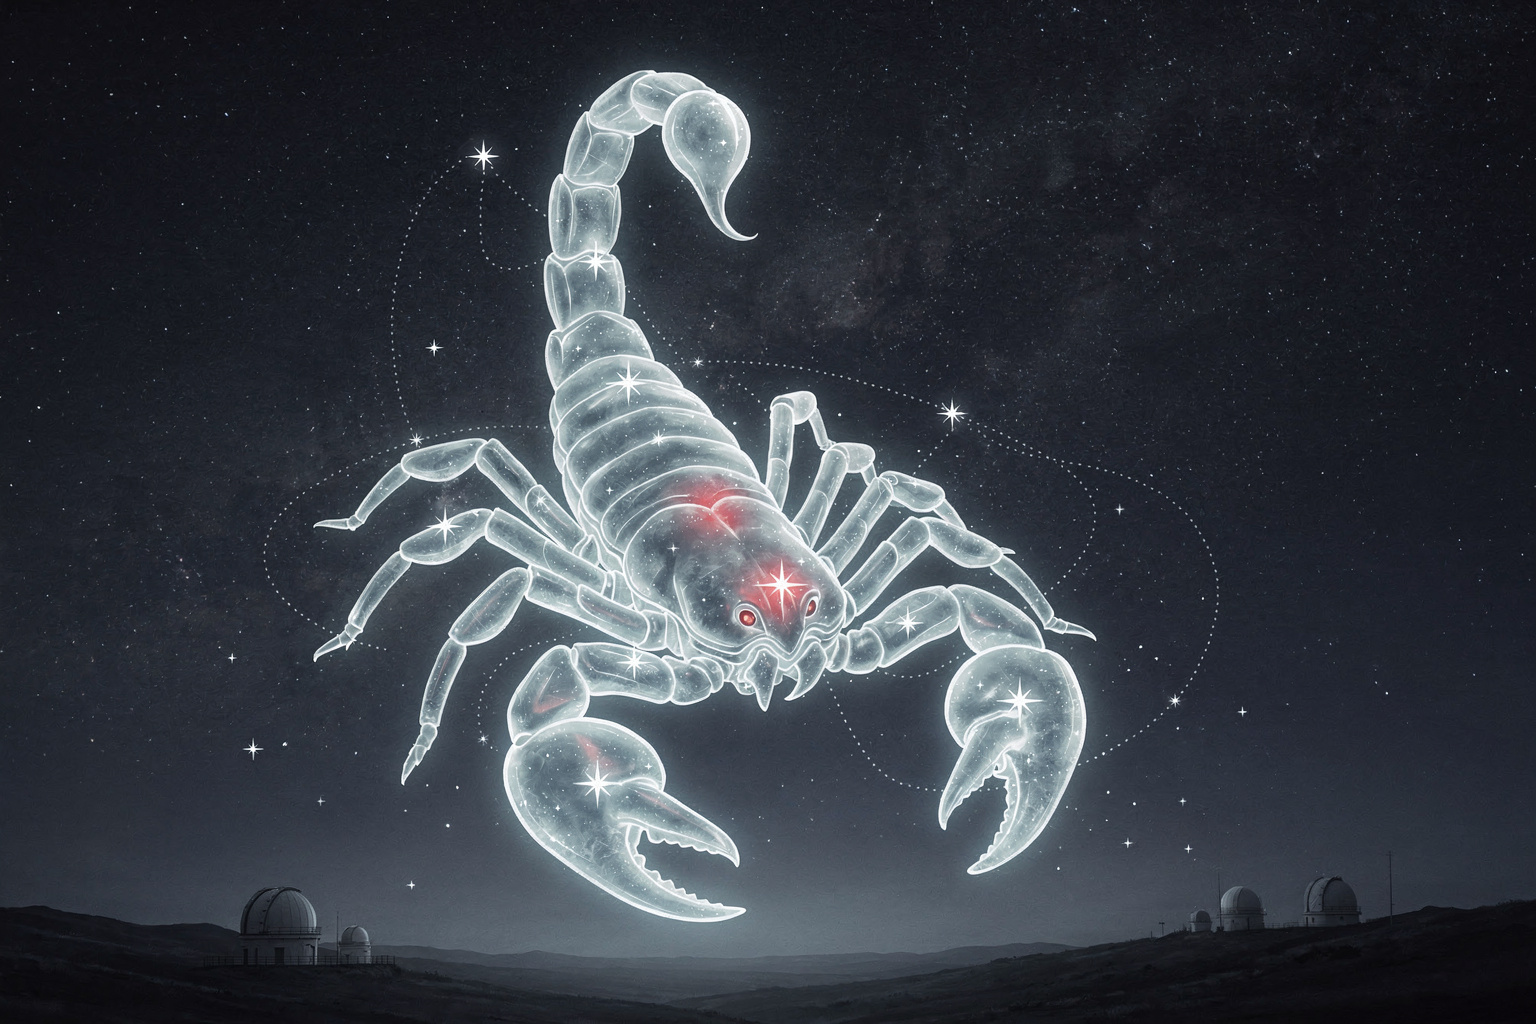
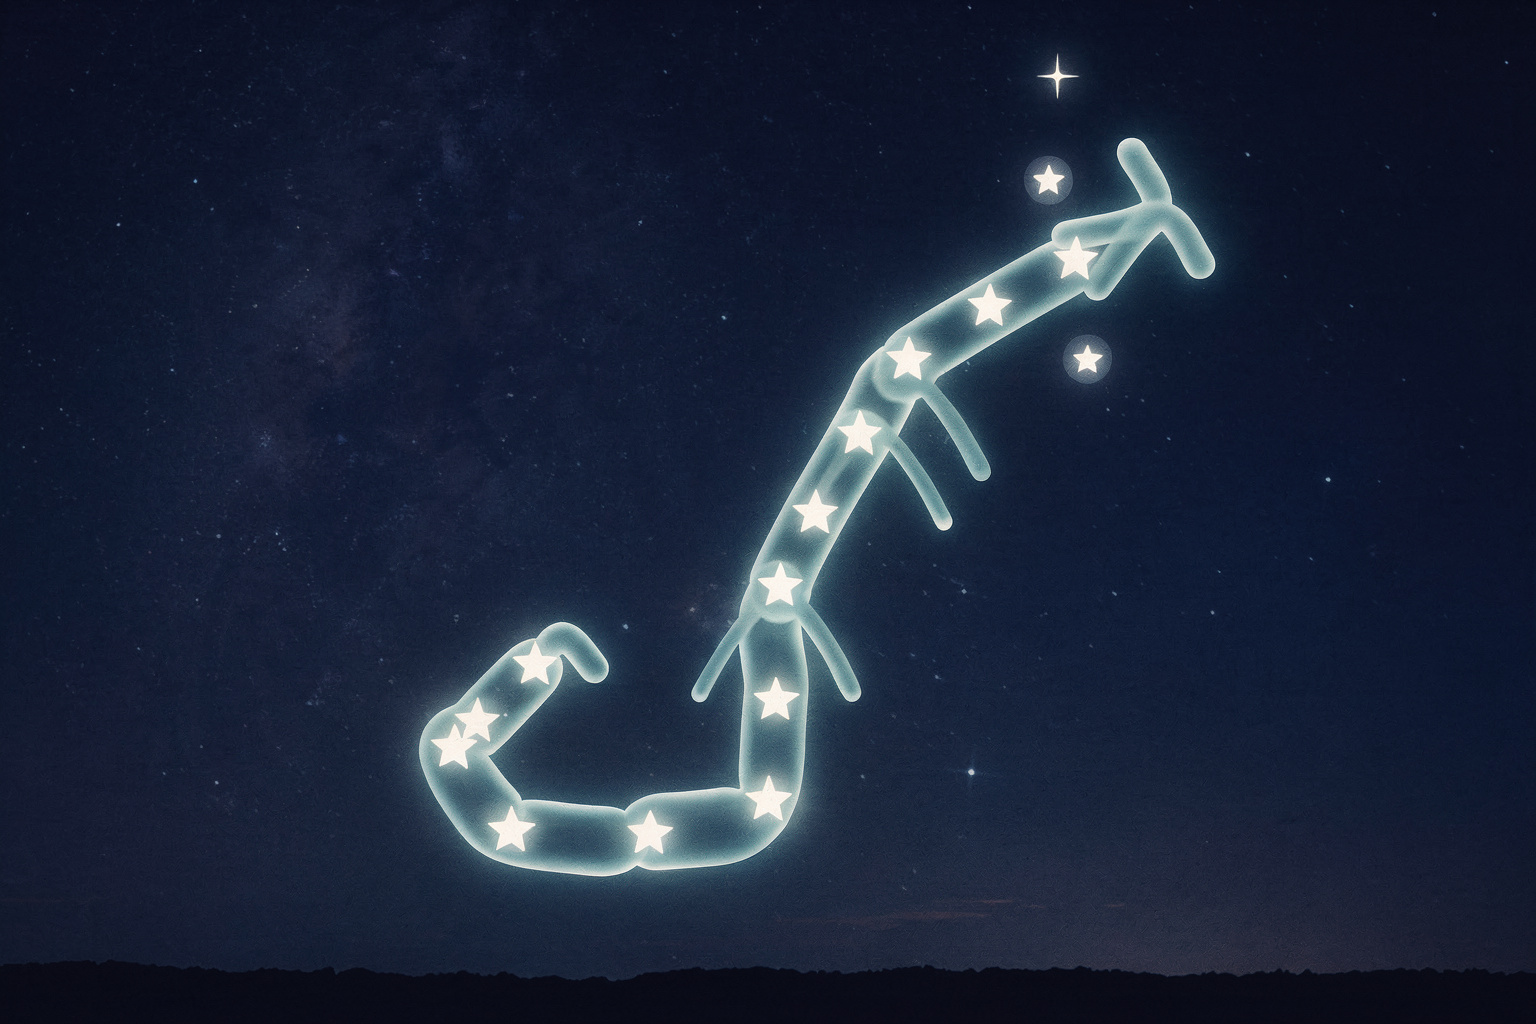
Night hero: registered spectral creatures (Scorpius) -- Flux painted on the real stars
The real fix for "make the hero figure actually sit on the stars": feed Flux a
CREATURE-shaped skeleton built from the figure's real projected stars (not bare
dots, which it ignores and reinvents), and it paints the spectral creature while
KEEPING the shape and the exact star positions. The app then overlays the real
bright stars on top so they land precisely on the painting's stars.

- New REG_HERO / REG_PAD registry. Scorpius is the first: night-heroes/scorpius.jpg
  is now a spectral scorpion built on its real stars (claws on the head stars, body
  curving through Antares, hooked stinger at Shaula). Registration verified to
  <0.02px: projFigure(f,300,200,REG_PAD) x5.12 == the 1536x1024 skeleton the
  painting was generated from (whose stars sit on the painted stars).
- Registered figures show the Flux creature at FULL strength (.reg / heroAuraFull),
  .fig-hero left empty (the creature IS the hero); the real stars + lines overlay on
  top and the lines fade as the creature blooms.
- Restructured figureSVG: persistent starfield + constellation lines + bright stars.
  Legacy (non-REG_HERO) figures keep the enriched luminous .fig-hero + dim aura +
  HERO_AURA_ADJ, unchanged.
- Removed the vector-ghost experiment (superseded by this Flux pipeline).

Docs (CLAUDE.md, astral-heroic-card-art skill) updated with the full
skeleton -> Flux -> overlay recipe and the no-screenshot registration check.
One complete figure (Scorpius) to review live before rolling the pipeline out.

diff --git a/index.html b/index.html
@@ -428,13 +428,22 @@ body.sky-full-on{overflow:hidden;}
 .sky-hero-stage .sky-hero-fig svg{display:block;width:100%;height:100%;}
 .sky-hero-stage .sky-hero-aura{object-fit:cover;opacity:0;filter:brightness(0.7) saturate(1) contrast(1.02);}
 .sky-hero-stage .sky-hero-veil{background:radial-gradient(120% 92% at 50% 40%,transparent 44%,rgba(6,10,26,0.52) 100%);pointer-events:none;}
-/* The "shift": the faint chart lights into the glowing figure while the painting
-   blooms in behind it — the stars hold position throughout (exact match). */
+/* The "shift": the starfield + bright stars persist; the constellation lines fade
+   out as the ghostly form (built through those same stars) rises over them, so the
+   viewer sees why the stars trace that creature. Painting (when present) blooms behind. */
+.sky-hero-stage .fig-field,.sky-hero-stage .fig-stars{opacity:1;}
 .sky-hero-stage .fig-chart{animation:morphChart 4.4s ease-in-out .3s infinite alternate;}
 .sky-hero-stage .fig-hero{opacity:0;animation:morphHero 4.4s ease-in-out .3s infinite alternate;}
 .sky-hero-stage.has-hero .sky-hero-aura{animation:heroAura 4.4s ease-in-out .3s infinite alternate;}
 @keyframes heroAura{0%,16%{opacity:0;}70%,100%{opacity:0.62;}}
-@media(prefers-reduced-motion:reduce){.sky-hero-stage .fig-chart{animation:none;opacity:0;}.sky-hero-stage .fig-hero{animation:none;opacity:1;}.sky-hero-stage.has-hero .sky-hero-aura{animation:none;opacity:0.62;}}
+/* Registered spectral hero (Flux creature built on the real stars): shown at FULL
+   strength — it's the hero, not a dim backdrop — blooming up from the star-chart while
+   the lines fade and the real stars hold their exact positions on top. */
+.sky-hero-stage.reg .sky-hero-aura{filter:brightness(0.96) saturate(1.05) contrast(1.02);}
+.sky-hero-stage.reg .sky-hero-veil{background:radial-gradient(130% 100% at 50% 42%,transparent 56%,rgba(6,10,26,0.42) 100%);}
+.sky-hero-stage.reg.has-hero .sky-hero-aura{animation:heroAuraFull 4.4s ease-in-out .3s infinite alternate;}
+@keyframes heroAuraFull{0%,14%{opacity:0.12;}68%,100%{opacity:0.96;}}
+@media(prefers-reduced-motion:reduce){.sky-hero-stage .fig-chart{animation:none;opacity:0;}.sky-hero-stage .fig-hero{animation:none;opacity:1;}.sky-hero-stage.has-hero .sky-hero-aura{animation:none;opacity:0.62;}.sky-hero-stage.reg.has-hero .sky-hero-aura{animation:none;opacity:0.96;}}
 .sky-now{margin:11px 20px 2px;font-family:var(--mono);font-size:11.5px;color:#cfe0ff;background:rgba(143,184,232,0.13);border:1px solid rgba(143,184,232,0.26);border-radius:10px;padding:8px 11px;line-height:1.5;}
 .sky-modal-blurb{margin:14px 20px 4px;font-family:var(--sans);font-size:15px;font-weight:600;color:var(--tx);line-height:1.45;}
 .sky-sec{margin:14px 20px 0;}
@@ -2662,6 +2671,16 @@ function figureAnchor(f){
   let best=f.s[0]; for(const s of f.s) if(s[3]<best[3]) best=s;
   return (f._anc=best);
 }
+// ── Registered spectral heroes ───────────────────────────────────────────────
+// The hero pipeline: build a CREATURE-skeleton from a figure's real projected stars,
+// let Flux paint the spectral creature over it (keeping the shape AND star positions),
+// save as night-heroes/<slug>.jpg, then in-app draw the real bright stars + lines on
+// top so they land EXACTLY on the painting's stars. `REG_HERO` marks figures wired this
+// way; `REG_PAD` is the projection inset (in the 300-px box) matching the skeleton the
+// painting was built from, so the overlay registers pixel-exact. Scorpius is the proof.
+const REG_HERO={scorpius:1};
+const REG_PAD={scorpius:35.16}; // = skeleton pad 180 / (1536/300)
+function isRegHero(slug){ return !!REG_HERO[slug]; }
 // Registered figure for the hero stage. Projects the figure's FULL real-star list
 // (cos-dec-corrected RA, north up) into the 3:2 stage box and draws it as two
 // pixel-aligned layers over a TRANSPARENT backdrop (so the Flux aura shows through):
@@ -2673,37 +2692,45 @@ function figureAnchor(f){
 // CSS var()).
 function figureSVG(slug,ac){
   const f=FIG_BY_SLUG[slug]; if(!f) return '';
-  const W=300,H=200,pad=30;
+  const reg=isRegHero(slug);
+  // Registered-hero figures use the projection inset the Flux painting was built from,
+  // so the overlaid real stars land exactly on the painting's stars.
+  const W=300,H=200,pad=REG_PAD[slug]||30;
   const {pts,lines}=projFigure(f,W,H,pad);
   const anc=figureAnchor(f); let ai=0; for(let i=0;i<f.s.length;i++){ if(f.s[i][0]===anc[0]){ ai=i; break; } }
   const ap=pts[ai];
-  // Astral chart layer (the "before").
+  // Scattered starfield so the astral layer reads like a real chart of the sky.
+  let h=_hashStr(slug)||1; const rnd=()=>{ h=(h*1103515245+12345)&0x7fffffff; return h/0x7fffffff; };
+  let field='<g class="fig-field">';
+  for(let i=0;i<78;i++){ const dx=(rnd()*W).toFixed(1), dy=(rnd()*H).toFixed(1), dr=(0.3+rnd()*0.8).toFixed(2); field+=`<circle cx="${dx}" cy="${dy}" r="${dr}" fill="#cfe0ff" opacity="${(0.10+rnd()*0.30).toFixed(2)}"/>`; }
+  field+='</g>';
+  // Astral constellation LINES (the "before") — fade out as the creature/figure rises.
   let chart='<g class="fig-chart">';
-  for(const e of lines){ const a=pts[e[0]],b=pts[e[1]]; if(!a||!b)continue; chart+=`<line x1="${a.x.toFixed(1)}" y1="${a.y.toFixed(1)}" x2="${b.x.toFixed(1)}" y2="${b.y.toFixed(1)}" stroke="rgba(190,215,255,0.5)" stroke-width="1" stroke-linecap="round"/>`; }
-  for(const p of pts){ const r=Math.max(1,2.4-p.mag*0.32); chart+=`<circle cx="${p.x.toFixed(1)}" cy="${p.y.toFixed(1)}" r="${r.toFixed(1)}" fill="#eaf2ff" opacity="0.92"/>`; }
+  for(const e of lines){ const a=pts[e[0]],b=pts[e[1]]; if(!a||!b)continue; chart+=`<line x1="${a.x.toFixed(1)}" y1="${a.y.toFixed(1)}" x2="${b.x.toFixed(1)}" y2="${b.y.toFixed(1)}" stroke="rgba(190,215,255,0.55)" stroke-width="1" stroke-linecap="round"/>`; }
   chart+='</g>';
-  // Heroic figure layer (the "after"): the constellation drawn as a luminous astral
-  // FORM sitting exactly on the real stars — rarity-coloured limbs given volume by a
-  // stack of blurred strokes (outer aura → volume → body) under a bright starlight
-  // core, with radiant orbs at each star. This is the registered figure that always
-  // matches; the painting behind it is only mood.
-  const strokeLayer=(w,col,op,blur,glow)=>{ let t='';
-    for(const e of lines){ const a=pts[e[0]],b=pts[e[1]]; if(!a||!b)continue; t+=`<line x1="${a.x.toFixed(1)}" y1="${a.y.toFixed(1)}" x2="${b.x.toFixed(1)}" y2="${b.y.toFixed(1)}" stroke="${col}" stroke-width="${w}" stroke-linecap="round" stroke-linejoin="round"/>`; }
-    const f=[]; if(blur)f.push(`blur(${blur}px)`); if(glow)f.push(`drop-shadow(0 0 3px ${ac})`);
-    return `<g opacity="${op}"${f.length?` style="filter:${f.join(' ')}"`:''}>${t}</g>`; };
+  // The "after": for registered figures the creature IS the Flux painting behind, so the
+  // hero layer stays empty; legacy figures still light their lines into a luminous form.
   let hero='<g class="fig-hero">';
-  hero+=strokeLayer(15,ac,0.10,4,false);   // outer aura
-  hero+=strokeLayer(8,ac,0.20,1.5,false);  // volume
-  hero+=strokeLayer(3.4,ac,0.60,0,false);  // body
-  hero+=strokeLayer(1.4,'#eaf6ff',0.95,0,true); // bright starlight core
-  for(const p of pts){ const r=Math.max(1.6,3.1-p.mag*0.34);
-    hero+=`<circle cx="${p.x.toFixed(1)}" cy="${p.y.toFixed(1)}" r="${(r*2.2).toFixed(1)}" fill="${ac}" opacity="0.5" style="filter:blur(2px)"/>`;
-    hero+=`<circle cx="${p.x.toFixed(1)}" cy="${p.y.toFixed(1)}" r="${r.toFixed(1)}" fill="#fff" style="filter:drop-shadow(0 0 ${(r*1.6).toFixed(1)}px ${ac})"/>`; }
+  if(!reg){
+    const strokeLayer=(w,col,op,blur,glow)=>{ let t='';
+      for(const e of lines){ const a=pts[e[0]],b=pts[e[1]]; if(!a||!b)continue; t+=`<line x1="${a.x.toFixed(1)}" y1="${a.y.toFixed(1)}" x2="${b.x.toFixed(1)}" y2="${b.y.toFixed(1)}" stroke="${col}" stroke-width="${w}" stroke-linecap="round" stroke-linejoin="round"/>`; }
+      const fl=[]; if(blur)fl.push(`blur(${blur}px)`); if(glow)fl.push(`drop-shadow(0 0 3px ${ac})`);
+      return `<g opacity="${op}"${fl.length?` style="filter:${fl.join(' ')}"`:''}>${t}</g>`; };
+    hero+=strokeLayer(15,ac,0.10,4,false)+strokeLayer(8,ac,0.20,1.5,false)+strokeLayer(3.4,ac,0.60,0,false)+strokeLayer(1.4,'#eaf6ff',0.95,0,true);
+  }
   hero+='</g>';
+  // Bright highlighted stars — persistent, ON TOP of both phases (the registration
+  // anchors you always see, brighter than the background starfield). Glows share ONE
+  // blur group + layered circles (no per-star filters) so the stage stays light.
+  let glows='',cores='';
+  for(const p of pts){ const r=Math.max(1.6,3.1-p.mag*0.34), x=p.x.toFixed(1), y=p.y.toFixed(1);
+    glows+=`<circle cx="${x}" cy="${y}" r="${(r*2.6).toFixed(1)}" fill="${ac}" opacity="0.4"/>`;
+    cores+=`<circle cx="${x}" cy="${y}" r="${(r*1.5).toFixed(1)}" fill="${ac}" opacity="0.55"/><circle cx="${x}" cy="${y}" r="${r.toFixed(1)}" fill="#fff"/>`; }
+  let stars=`<g class="fig-stars"><g style="filter:blur(2.5px)">${glows}</g>${cores}</g>`;
   // Persistent anchor label (names the brightest star so the figure stays legible).
   let lab='';
   if(ap){ const ty=Math.max(11,ap.y-6); lab=`<text x="${ap.x.toFixed(1)}" y="${ty.toFixed(1)}" fill="#cfe0ff" font-size="10" text-anchor="middle" style="font-family:'DM Mono',monospace">${anc[0]}</text>`; }
-  return `<svg viewBox="0 0 ${W} ${H}" xmlns="http://www.w3.org/2000/svg" role="img" aria-label="${f.n} star figure">${chart}${hero}${lab}</svg>`;
+  return `<svg viewBox="0 0 ${W} ${H}" xmlns="http://www.w3.org/2000/svg" role="img" aria-label="${f.n} star figure">${field}${chart}${hero}${stars}${lab}</svg>`;
 }
 // ── Loot-grade rarity + two-phase "astral heroic" card art ──────────────────
 // Every night card carries a rarity (loot colours: common→green, rare→blue,
@@ -4176,15 +4203,18 @@ function renderStoryBody(slug,lat,lng){
   if(FIG_BY_SLUG[slug]){
     // Constellation: prominent full-width hero stage. The real star chart morphs
     // once into the illustrated figure (when HERO_ART exists), else just the chart.
-    const art=HERO_ART[slug], cls=art?' has-hero':'';
+    // Registered-hero figures show their spectral Flux creature at FULL strength (it's
+    // built ON the real stars, so it's the hero, not a dim mismatched aura) and skip the
+    // per-figure flip/scale. Legacy figures keep the dim, orientation-nudged aura.
+    const reg=isRegHero(slug), art=HERO_ART[slug], cls=art?(reg?' has-hero reg':' has-hero'):'';
     s+=`<div class="sky-hero-stage${cls}" style="--ac:${ac};" aria-hidden="true">`;
-    // Flux painting as the dim background AURA + a vignette veil (only when art
-    // exists). No loading="lazy": the modal (and this <img>) only exist once the
-    // card is tapped, so the fetch is already on-demand; lazy would stop it loading
-    // inside the fixed-position sheet. The SW runtime-caches it after the first open.
-    if(art){ const adj=HERO_AURA_ADJ[slug], ast=adj?` style="transform:${adj};transform-origin:center;"`:''; s+=`<img class="sky-hero-aura"${ast} src="${art}" alt="" decoding="async" onerror="var st=this.closest('.sky-hero-stage'); if(st) st.classList.remove('has-hero'); this.remove();"><div class="sky-hero-veil"></div>`; }
-    // Registered star-figure on top — same projection both phases, so the stars
-    // stay locked over the aura (exact match).
+    // Flux painting as the background creature/aura + a vignette veil. No loading="lazy":
+    // the modal (and this <img>) only exist once the card is tapped, so the fetch is
+    // already on-demand; lazy would stop it loading inside the fixed-position sheet. The
+    // SW runtime-caches it after the first open.
+    if(art){ const adj=reg?'':HERO_AURA_ADJ[slug], ast=adj?` style="transform:${adj};transform-origin:center;"`:''; s+=`<img class="sky-hero-aura"${ast} src="${art}" alt="" decoding="async" onerror="var st=this.closest('.sky-hero-stage'); if(st) st.classList.remove('has-hero'); this.remove();"><div class="sky-hero-veil"></div>`; }
+    // Registered star-figure on top — the real bright stars + lines land exactly on the
+    // painting's stars (the "identifies the stars" match).
     s+=`<div class="sky-hero-fig">${figureSVG(slug,ac)}</div>`;
     s+=`</div>`;
   }else{

diff --git a/CLAUDE.md b/CLAUDE.md
@@ -67,20 +67,29 @@ Hosted on GitHub Pages at https://foxorama.github.io/golf-finder/ (deploys from
   limbs given volume by a stack of blurred rarity-coloured strokes (outer aura → volume →
   body) under a bright starlight core, with radiant orbs at each star — so the thing sitting
   exactly on the real stars reads as the figure itself, and it (not the painting) carries the
-  match. **Hard-won finding: Flux text-to-image CANNOT pose a painting onto the exact stars.**
-  Even `flux2_max` fed the real star-skeleton as a structural reference just paints a generic,
-  well-composed figure (often facing the wrong way) — and the real stars don't form a tidy
-  figure anyway (that's the point). So don't regenerate art hoping it'll register; instead the
-  enriched `.fig-hero` is the true match, and the painting is oriented behind it by
-  **`HERO_AURA_ADJ[slug]`** — a per-figure CSS transform on `.sky-hero-aura`
-  (`scaleX(-1)`/`scale`/`translate`) to flip/scale/shift the gross pose into place (most
-  existing paintings already orient fine — Orion & Leo line up beautifully; Sagittarius needed
-  a flip + its art swapped for a cleaner regen). To regenerate a painting anyway: render the
-  figure skeleton with GDI+ in the *exact* `projFigure` framing (1536×1024 = 5.12× the
-  300×200 box, pad 153.6), upload via the Flux MCP `request_upload_url` (PUT works on
-  `app.bfl.ai`; force TLS1.2 in PS5.1), `generate_image(flux2_max)`, download the result
-  (`get_history` → `image_url`) to `night-heroes/<slug>.jpg`. If the `<img>` 404s, `.has-hero`
-  drops and the figure shows on the dark bg. See `night-heroes/HERO-ART-SPEC.md`. The whole
+  match. **THE registered-hero pipeline (`REG_HERO` figures — Scorpius is the first):** the
+  breakthrough is that **Flux *can* pose a painting onto the exact stars if you feed it a
+  CREATURE-shaped skeleton, not bare dots.** (Bare dots/lines → it paints a generic, often
+  mirrored figure — that earlier failure is real, see PR #138; the fix is a recognizable
+  skeleton.) Recipe per figure: (1) render a registered **creature-skeleton** from its real
+  projected stars via GDI+ at 1536×1024 (a glowing body curve through the star spine + the
+  appendages — claws/limbs/wings — with the bright stars marked); (2) `request_upload_url` →
+  PUT (works on `app.bfl.ai`, force TLS1.2 in PS5.1) → `generate_image(flux2_max)` with a
+  prompt to *enhance this exact skeleton, keep the shape and star positions*; (3) `get_history`
+  → download `image_url` to `night-heroes/<slug>.jpg`; (4) add the slug to `REG_HERO` and its
+  projection inset to **`REG_PAD`** (= skeleton-pad ÷ 5.12, so the in-app overlay's real stars
+  land on the painting's stars — verify with `projFigure(f,300,200,REG_PAD)` ×5.12 ≈ the
+  skeleton's `projFigure(f,1536,1024,skelpad)`, error <0.1px). `REG_HERO` figures show the Flux
+  creature at **full strength** (`.reg` class, `heroAuraFull` blooms to ~0.96, no
+  `HERO_AURA_ADJ`) with `.fig-hero` empty (the creature IS the hero); the real stars + lines
+  overlay on top and land exactly on the painting's stars. Verify registration without a
+  screenshot: GDI+-composite red rings at the `projFigure(…,skelpad)` star positions over the
+  downloaded jpg — they must sit on the painted stars. **Legacy (non-`REG_HERO`) figures** keep
+  the dim aura (`brightness ~0.7 / opacity ~0.62`) + the enriched `.fig-hero` luminous form +
+  **`HERO_AURA_ADJ[slug]`** (a per-figure `scaleX(-1)`/`scale`/`translate` to orient the old
+  painting roughly behind the figure — Orion & Leo line up well, Sagittarius needed a flip).
+  If the `<img>` 404s, `.has-hero` drops and the figure shows on the dark bg. See
+  `night-heroes/HERO-ART-SPEC.md`. The whole
   visual style — and how to add a new card so it matches — is documented in the
   **`astral-heroic-card-art` skill** (`.claude/skills/`). Keep new figures' star coords
   real (J2000): wrong coords draw the wrong outline. **The astral chart shows the FULL

diff --git a/.claude/skills/astral-heroic-card-art/SKILL.md b/.claude/skills/astral-heroic-card-art/SKILL.md
@@ -60,10 +60,14 @@ the heroic frame.
   (the same stars lit into a glowing rarity figure) — from **one `projFigure` projection, so the
   stars never move between phases**. `.fig-hero` is drawn as a **luminous astral *form*** —
   volumetric glowing limbs (a stack of blurred rarity strokes) + bright starlight core + radiant
-  star-orbs — so the figure ON the real stars carries the match. The painting can't register
-  pixel-exact (fixed raster — and Flux text-to-image won't pose onto exact stars), so it's the
-  aura, oriented behind the figure per-figure by **`HERO_AURA_ADJ[slug]`** (a CSS flip/scale/shift
-  on `.sky-hero-aura`); missing/404 art drops `.has-hero` and the figure shows on the dark bg.
+  star-orbs — so the figure ON the real stars carries the match. **Registered-hero figures
+  (`REG_HERO`, Scorpius first)** go further: a creature-shaped skeleton built from the real stars
+  is fed to Flux (which DOES register when given a creature, not bare dots), and the resulting
+  spectral painting shows at **full strength** (`.reg`, `heroAuraFull`) with `.fig-hero` empty —
+  the real stars overlay on top via the matched **`REG_PAD`** inset and land exactly on the
+  painting's stars. Legacy figures keep the **dim aura** oriented behind the enriched `.fig-hero`
+  by **`HERO_AURA_ADJ[slug]`** (a CSS flip/scale/shift). Full pipeline + verify recipe in
+  `CLAUDE.md`; missing/404 art drops `.has-hero` and the figure shows on the dark bg.
   The astral chart must draw the **whole figure, not a bright sub-asterism** (Sagittarius = the full archer,
   not just the Teapot); verify any new star's J2000 coords against `star-catalog-deep.json`. See
   `night-heroes/HERO-ART-SPEC.md` for the figure art spec/prompt.
